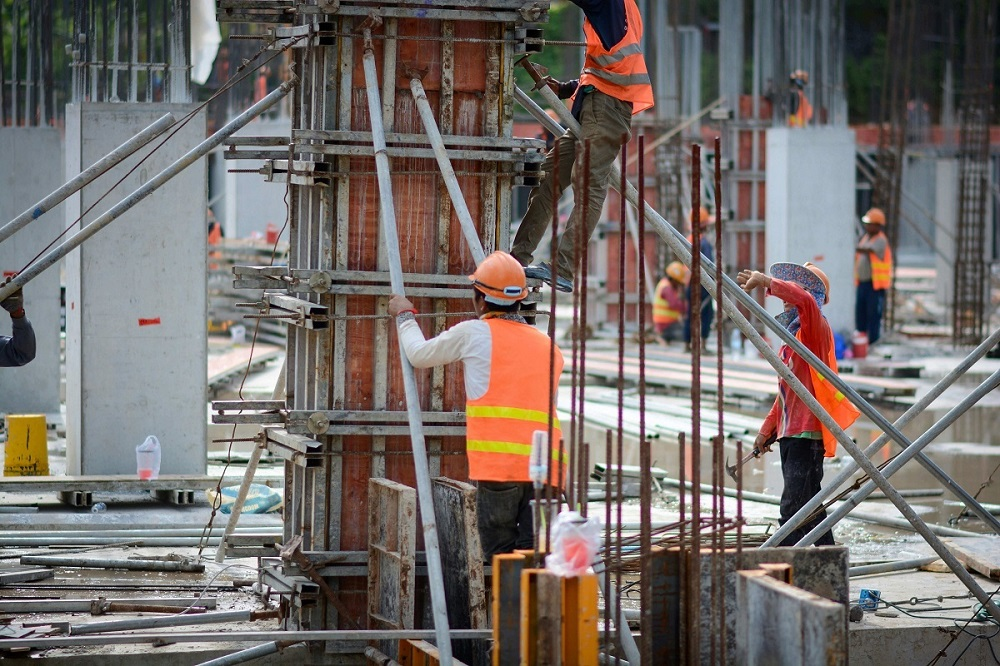
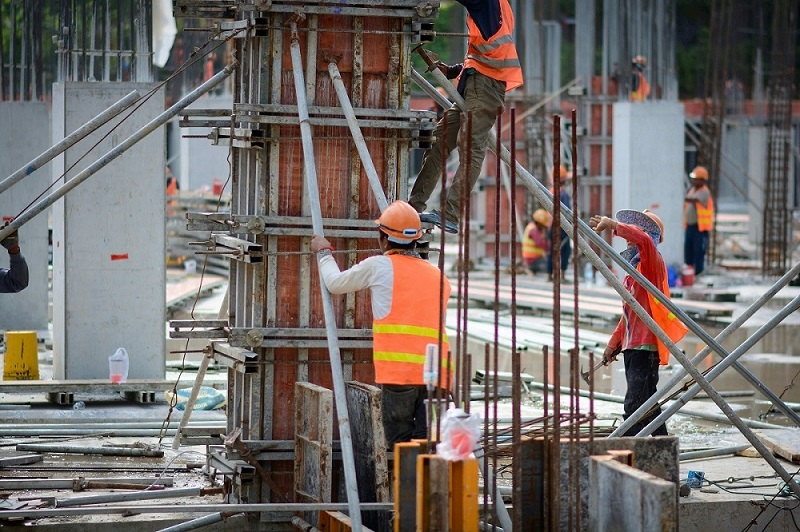
Optimized LCP for 90+ performance score

diff --git a/index.html b/index.html
@@ -11,7 +11,12 @@
     <!-- Favicon -->
     <link rel="icon" type="image/png" href="main-images/favicon.png">
 
-   <!-- High Priority Image Preload for 90+ Performance Score -->
+   <!-- Preconnect to improve Render Blocking for External Fonts & Tailwind -->
+    <link rel="preconnect" href="https://fonts.googleapis.com">
+    <link rel="preconnect" href="https://fonts.gstatic.com" crossorigin>
+    <link rel="preconnect" href="https://cdn.tailwindcss.com">
+
+    <!-- High Priority Hero Image Preload -->
     <link rel="preload" as="image" href="main-images/hero-bg.jpg" fetchpriority="high">
     
     <style>
